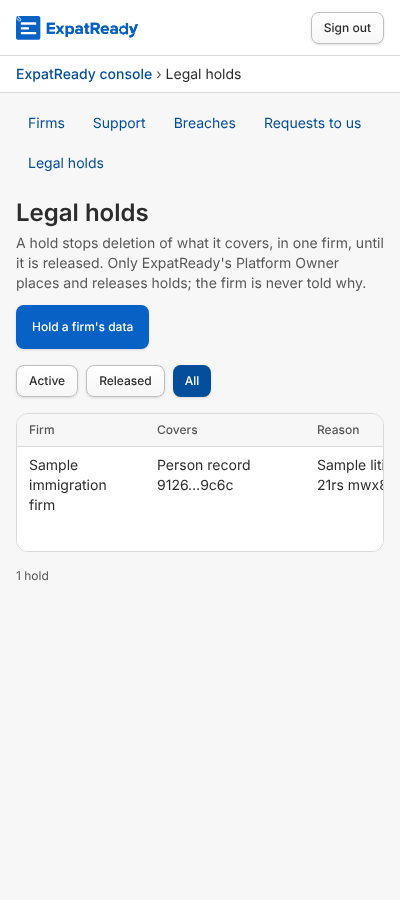
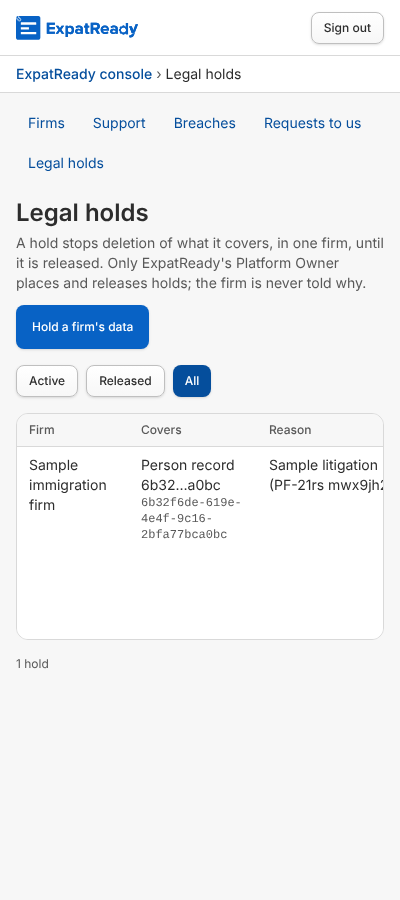
screens: R1.85 — PF-21rs B2 round 1 — the hold dialog says what to do (review M1) + minors
* Review M1: no firm chosen (a name typed but not chosen), an id that is not one, missing dates or reason → plain
  words before anything is sent; the API's refusals stay the backstop.
* Minors: the table fits 1024 px; focus to the release reason after a refusal; "Released" in the All view; the
  full person or case id shown and selectable; two holds on one scope told apart (placed time and reason in the
  release button's name and dialog); a release refused as already released closes, reloads and says so; the
  dialog wraps long firm names; 44 px dialog buttons on phones; the success line clears.
check_pf21rs_browser.ts 67/67 on an isolated copy.

Claude-Session: https://claude.ai/code/session_01XTe3gcpyFFe13EGme1RMEh

diff --git a/ai-workers/problem-1-pathway-setup-and-form-filling/prototype/studio/web/src/modules/system/privacy/holds-page.tsx b/ai-workers/problem-1-pathway-setup-and-form-filling/prototype/studio/web/src/modules/system/privacy/holds-page.tsx
@@ -10,25 +10,28 @@ import { SystemFrame, useSystemStaff } from "../frame";
 import { systemApi, SystemApiError, useSystemToken } from "../session";
 import { actorWords, firmWords, momentUtc } from "./contract";
 import { OneFirm, type Firm } from "./one-firm";
-import { coversWords, HOLD_CATEGORIES, HOLD_COPY as C, holdBody, holdFieldErrors, HoldList, LEGAL_HOLD_KEY, type Hold, type HoldDraft } from "./holds";
+import { coversWords, HOLD_CATEGORIES, HOLD_COPY as C, holdBody, holdDraftErrors, holdFieldErrors, HoldList, LEGAL_HOLD_KEY, type Hold, type HoldDraft } from "./holds";
 
 const blank = (): HoldDraft => ({ firmId: "", kind: "FIRM", id: "", category: HOLD_CATEGORIES[0][0], from: "", to: "", reason: "" });
 
-function PlaceHold({ open, onOpenChange, onPlaced, returnFocus }: { open: boolean; onOpenChange: (o: boolean) => void; onPlaced: () => void; returnFocus: () => HTMLElement | null }) {
+function PlaceHold({ open, onOpenChange, onPlaced, returnFocus, onTry }: { open: boolean; onOpenChange: (o: boolean) => void; onPlaced: () => void; returnFocus: () => HTMLElement | null; onTry?: () => void }) {
   const [d, setD] = React.useState<HoldDraft>(blank), [firm, setFirm] = React.useState<Firm | null>(null), [advanced, setAdvanced] = React.useState(false);
   const [errors, setErrors] = React.useState<Record<string, string>>({}), [busy, setBusy] = React.useState(false), [refused, setRefused] = React.useState(0), form = React.useRef<HTMLFormElement>(null);
   React.useEffect(() => { if (open) { setD(blank()); setFirm(null); setAdvanced(false); setErrors({}); } }, [open]);
   React.useEffect(() => { if (refused) form.current?.querySelector<HTMLElement>("[aria-invalid=true]")?.focus(); }, [refused]);
   const put = <K extends keyof HoldDraft>(k: K, v: HoldDraft[K]) => { setD((o) => ({ ...o, [k]: v })); setErrors((o) => { if (!(k in o)) return o; const { [k]: _gone, ...rest } = o; return rest; }); };
   const send = async (e: React.FormEvent) => {
-    e.preventDefault(); if (busy) return; setBusy(true); setErrors({});
+    e.preventDefault(); if (busy) return; onTry?.();   // break m6: an earlier success line goes once a new place is tried
+    const mine = holdDraftErrors(d, !!firm, advanced);
+    if (Object.keys(mine).length) { setErrors(mine); setRefused((n) => n + 1); return; }
+    setBusy(true); setErrors({});
     try { await systemApi("/register/holds", { method: "POST", json: holdBody({ ...d, firmId: firm?.id ?? "", kind: advanced ? d.kind : "FIRM" }) }); onPlaced(); }
     catch (x) { setErrors(x instanceof SystemApiError && x.problem.fields ? holdFieldErrors(x.problem.fields) : { other: x instanceof SystemApiError ? x.message : C.failed }); setRefused((n) => n + 1); }
     finally { setBusy(false); }
   };
   return (
     <Dialog open={open} onOpenChange={onOpenChange} title={C.placeTitle} description={C.placeLead} guard returnFocus={returnFocus}
-      footer={<><Button type="button" variant="outline" onClick={() => onOpenChange(false)}>Cancel</Button><Button type="submit" form="place-hold" busy={busy} data-place-send>Place the hold</Button></>}>
+      footer={<><Button type="button" variant="outline" onClick={() => onOpenChange(false)}>Cancel</Button><Button type="submit" form="place-hold" busy={busy} className="max-sm:min-h-11" data-place-send>Place the hold</Button></>}>
       <form id="place-hold" ref={form} onSubmit={send} noValidate className="flex flex-col gap-4">
         <OneFirm chosen={firm} onChange={(f) => { setFirm(f); setErrors(({ firmId: _g, ...r }) => r); }} error={errors.firmId} />
         <label className="flex items-center gap-2 text-sm"><input type="checkbox" className="size-4 accent-[var(--color-primary)]" checked={advanced} onChange={(e) => setAdvanced(e.target.checked)} data-advanced />{C.advanced}</label>
@@ -49,20 +52,27 @@ function PlaceHold({ open, onOpenChange, onPlaced, returnFocus }: { open: boolea
   );
 }
 
-function ReleaseHold({ hold, onOpenChange, onReleased }: { hold: Hold | null; onOpenChange: (o: boolean) => void; onReleased: () => void }) {
-  const [reason, setReason] = React.useState(""), [errors, setErrors] = React.useState<Record<string, string>>({}), [busy, setBusy] = React.useState(false);
+function ReleaseHold({ hold, onOpenChange, onReleased, onStale }: { hold: Hold | null; onOpenChange: (o: boolean) => void; onReleased: () => void; onStale: (words: string) => void }) {
+  const [reason, setReason] = React.useState(""), [errors, setErrors] = React.useState<Record<string, string>>({}), [busy, setBusy] = React.useState(false), form = React.useRef<HTMLFormElement>(null);
+  // Review m2: after a refusal the refused field takes the focus.
+  React.useEffect(() => { if (errors.reason) form.current?.querySelector<HTMLElement>("[aria-invalid=true]")?.focus(); }, [errors]);
   React.useEffect(() => { if (hold) { setReason(""); setErrors({}); } }, [hold]);
   const go = async (e: React.FormEvent) => {
-    e.preventDefault(); if (busy || !hold) return; setBusy(true); setErrors({});
+    e.preventDefault(); if (busy || !hold) return;
+    if (!reason.trim()) { setErrors({ reason: C.releaseReasonNeeded }); return; }
+    setBusy(true); setErrors({});
     try { await systemApi(`/register/holds/${hold.id}/release`, { method: "POST", json: { reason } }); onReleased(); }
-    catch (x) { setErrors(x instanceof SystemApiError && x.problem.fields ? holdFieldErrors(x.problem.fields) : { other: x instanceof SystemApiError ? x.message : C.failed }); }
+    catch (x) {
+      // Break m2: released elsewhere meanwhile: the dialog closes, the list reloads and says so.
+      if (x instanceof SystemApiError && x.status === 409) { onStale(x.message); return; }
+      setErrors(x instanceof SystemApiError && x.problem.fields ? holdFieldErrors(x.problem.fields) : { other: x instanceof SystemApiError ? x.message : C.failed }); }
     finally { setBusy(false); }
   };
   return (
-    <Dialog open={!!hold} onOpenChange={onOpenChange} title={C.releaseTitle} description={hold ? `${firmWords({ id: hold.firmId, name: hold.firmName ?? null })}: ${coversWords(hold.scope)}. ${C.releaseLead}` : ""}
+    <Dialog open={!!hold} onOpenChange={onOpenChange} title={C.releaseTitle} description={hold ? <span className="[overflow-wrap:anywhere]">{firmWords({ id: hold.firmId, name: hold.firmName ?? null })}: {coversWords(hold.scope)}, placed {momentUtc(hold.placedAt)} for “{hold.reason}”. {C.releaseLead}</span> : ""}
       returnFocus={() => document.getElementById("holds-heading")}
-      footer={<><Button type="button" variant="outline" onClick={() => onOpenChange(false)}>Cancel</Button><Button type="submit" form="release-hold" variant="destructive" busy={busy} data-release-send>Release the hold</Button></>}>
-      <form id="release-hold" onSubmit={go} noValidate className="flex flex-col gap-4">
+      footer={<><Button type="button" variant="outline" onClick={() => onOpenChange(false)}>Cancel</Button><Button type="submit" form="release-hold" variant="destructive" busy={busy} className="max-sm:min-h-11" data-release-send>Release the hold</Button></>}>
+      <form id="release-hold" ref={form} onSubmit={go} noValidate className="flex flex-col gap-4">
         <Field label="Reason for the release" hint="Why it may be released: kept on the hold and on the audit line." error={errors.reason}><Input value={reason} onChange={(e) => setReason(e.target.value)} data-field="release-reason" /></Field>
         {errors.other ? <Notice tone="danger"><span data-release-error>{errors.other}</span></Notice> : null}
       </form>
@@ -91,7 +101,7 @@ function HoldsBody() {
     <div className="mx-auto flex max-w-7xl flex-col gap-4">
       {title}
       <div role="group" aria-label="Show holds" className="flex flex-wrap gap-2">
-        {(["active", "released", "all"] as const).map((x) => <Button key={x} variant={state === x ? "default" : "outline"} size="sm" aria-pressed={state === x} onClick={() => setState(x)} data-hold-chip={x}>{x === "active" ? "Active" : x === "released" ? "Released" : "All"}</Button>)}
+        {(["active", "released", "all"] as const).map((x) => <Button key={x} variant={state === x ? "default" : "outline"} size="sm" aria-pressed={state === x} onClick={() => { setState(x); setDone(null); }} data-hold-chip={x}>{x === "active" ? "Active" : x === "released" ? "Released" : "All"}</Button>)}
       </div>
       {!d && !list.isError ? <p role="status" className="text-sm text-text-muted" data-loading>Loading the holds…</p>
         : list.isError ? <Notice tone="danger" title="Not available" action={<Button variant="outline" size="sm" onClick={() => void list.refetch()}>Retry</Button>}><span data-holds-error>{refused ? refused.message : C.loadFailed}</span></Notice>
@@ -99,19 +109,19 @@ function HoldsBody() {
             : <>
               <Table label="Legal holds" head={["Firm", "Covers", "Reason", "Placed", "Release"]}>
                 {d!.holds.map((h) => <tr key={h.id} data-hold-row={h.id} data-active={h.active}>
-                  <td className="min-w-32 [overflow-wrap:anywhere]">{firmWords({ id: h.firmId, name: h.firmName ?? null })}</td>
-                  <td className="min-w-40">{coversWords(h.scope)}</td>
-                  <td className="min-w-48 max-w-md [overflow-wrap:anywhere]">{h.reason}</td>
+                  <td className="min-w-28 [overflow-wrap:anywhere]">{firmWords({ id: h.firmId, name: h.firmName ?? null })}</td>
+                  <td className="min-w-32 [overflow-wrap:anywhere]">{coversWords(h.scope)}{h.scope.kind === "PERSON" || h.scope.kind === "CASE" ? <code className="block select-all font-mono text-xs text-text-muted [overflow-wrap:anywhere]">{h.scope.id}</code> : null}</td>
+                  <td className="min-w-40 [overflow-wrap:anywhere]">{h.reason}</td>
                   <td className="whitespace-nowrap text-sm"><time dateTime={h.placedAt}>{momentUtc(h.placedAt)}</time><span className="block text-xs text-text-muted">{actorWords(h.placedBy, h.placedByName ?? null)}</span></td>
-                  <td className="min-w-40 text-sm">{h.active ? (manage ? <Button variant="outline" size="sm" className="text-text-danger" onClick={() => setReleasing(h)} aria-label={`Release the hold on ${firmWords({ id: h.firmId, name: h.firmName ?? null })}: ${coversWords(h.scope)}`}>Release</Button> : "Active")
-                    : <span data-released><time dateTime={h.releasedAt ?? ""}>{h.releasedAt ? momentUtc(h.releasedAt) : ""}</time><span className="block text-xs text-text-muted [overflow-wrap:anywhere]">{actorWords(h.releasedBy ?? "", h.releasedByName ?? null)}{h.releaseReason ? `: ${h.releaseReason}` : ""}</span></span>}</td>
+                  <td className="min-w-24 text-sm">{h.active ? (manage ? <Button variant="outline" size="sm" className="text-text-danger" onClick={() => setReleasing(h)} data-release={h.id} aria-label={`Release the hold on ${firmWords({ id: h.firmId, name: h.firmName ?? null })}: ${coversWords(h.scope)}, placed ${momentUtc(h.placedAt)}`}>Release</Button> : "Active")
+                    : <span data-released><span className="block font-medium">Released</span><time dateTime={h.releasedAt ?? ""}>{h.releasedAt ? momentUtc(h.releasedAt) : ""}</time><span className="block text-xs text-text-muted [overflow-wrap:anywhere]">{actorWords(h.releasedBy ?? "", h.releasedByName ?? null)}{h.releaseReason ? `: ${h.releaseReason}` : ""}</span></span>}</td>
                 </tr>)}
               </Table>
               <p className="text-xs text-text-muted">{d!.truncated ? C.truncated : `${d!.holds.length} ${d!.holds.length === 1 ? "hold" : "holds"}`}</p>
             </>}
       {manage ? <>
-        <PlaceHold open={open} onOpenChange={(o) => { setOpen(o); if (!o) refresh(); }} returnFocus={() => placeButton.current} onPlaced={() => { setOpen(false); setDone(C.placed); setState("active"); refresh(); }} />
-        <ReleaseHold hold={releasing} onOpenChange={(o) => { if (!o) { setReleasing(null); refresh(); } }} onReleased={() => { setReleasing(null); setDone(C.released); refresh(); }} />
+        <PlaceHold open={open} onOpenChange={(o) => { setOpen(o); if (!o) refresh(); }} returnFocus={() => placeButton.current} onPlaced={() => { setOpen(false); setDone(C.placed); setState("active"); refresh(); }} onTry={() => setDone(null)} />
+        <ReleaseHold hold={releasing} onOpenChange={(o) => { if (!o) { setReleasing(null); refresh(); } }} onReleased={() => { setReleasing(null); setDone(C.released); refresh(); }} onStale={(w) => { setReleasing(null); setDone(w); refresh(); }} />
       </> : null}
     </div>
   );

diff --git a/ai-workers/problem-1-pathway-setup-and-form-filling/prototype/studio/tests/check_pf21rs_browser.ts b/ai-workers/problem-1-pathway-setup-and-form-filling/prototype/studio/tests/check_pf21rs_browser.ts
@@ -459,7 +459,15 @@ try {
   await hd.getByRole("button", { name: "Place the hold" }).click();
   await hd.locator("[role=alert]").first().waitFor({ timeout: 5000 }).catch(() => undefined);
   const holdErrs = await hd.locator("[role=alert]").allInnerTexts();
-  ok("PF-21rs B2 W3 fail: no firm and no reason → each refusal shown (the API's words), nothing placed", holdErrs.length >= 2 && holdCount() === h0, holdErrs);
+  ok("PF-21rs B2 W3 fail (review M1): no firm chosen and no reason → each refusal in plain words saying what to do, nothing placed",
+    holdErrs.includes(HOLD_COPY.firmNotChosen) && holdErrs.includes(HOLD_COPY.reasonNeeded) && holdCount() === h0, holdErrs);
+  // Typing the firm's name without choosing it, and an id that is not one: said in plain words, nothing sent.
+  await hd.locator("[data-firm-search]").fill(nameA); await hd.locator("[data-advanced]").check(); await hd.getByLabel("Covers").selectOption("PERSON");
+  await hd.getByLabel("Person record id").fill(nameA); await hd.getByLabel("Reason for the hold").fill("Sample"); await hd.getByRole("button", { name: "Place the hold" }).click();
+  const slipErrs = await hd.locator("[role=alert]").allInnerTexts();
+  ok("PF-21rs B2 W3 fail (review M1): a firm name typed but not chosen, and a person id that is not one, each say what to do; nothing placed",
+    slipErrs.includes(HOLD_COPY.firmNotChosen) && slipErrs.includes(HOLD_COPY.idWords) && holdCount() === h0, slipErrs);
+  await hd.locator("[data-advanced]").uncheck(); await hd.getByLabel("Reason for the hold").fill("");
   await hd.locator("[data-firm-search]").fill(nameA); await hd.locator(`[data-add-firm="${A}"]`).click({ timeout: 10_000 });
   await hd.locator("[data-advanced]").check(); await hd.getByLabel("Covers").selectOption("PERSON"); await hd.getByLabel("Person record id").fill(heldPerson);
   await hd.getByLabel("Reason for the hold").fill(`Sample litigation (PF-21rs ${run})`); await hd.getByRole("button", { name: "Place the hold" }).click();
@@ -472,11 +480,12 @@ try {
     !!holdId && rowText.includes(nameA) && rowText.includes(coversWords({ kind: "PERSON", id: heldPerson })) && rowText.includes("Platform Owner (Sample)") && (await p1.locator("[data-done]").innerText().catch(() => "")) === HOLD_COPY.placed, { holdId, rowText });
   ok("PF-21rs B2 W3 pass (j_85 W4): the app's delete check now answers HELD for that person, with the hold's reason (shown in our console only)", held.v === "HELD" && held.why.includes(`Sample litigation (PF-21rs ${run})`), held);
   await p1.screenshot({ path: join(SHOTS, "b2-01-holds-active-1440.png"), fullPage: true });
-  await p1.getByRole("button", { name: `Release the hold on ${nameA}: ${coversWords({ kind: "PERSON", id: heldPerson })}`, exact: true }).click();
+  await p1.locator(`[data-release="${holdId}"]`).click();
   const rd = p1.getByRole("dialog", { name: HOLD_COPY.releaseTitle }); await rd.waitFor();
+  const relWords = await rd.getByText(`Sample litigation (PF-21rs ${run})`).count();   // break m3: the dialog names the matter
   await rd.getByRole("button", { name: "Release the hold" }).click();
   const relErr = await rd.locator("[role=alert]").first().innerText({ timeout: 5000 }).catch(() => "");
-  ok("PF-21rs B2 W3 fail (BR-6): Release without a reason → refused under the field; the hold stays active and the check still HELD", !!relErr && sql(`select released_at is null from plat_legal_hold where id = '${holdId}'`) === "t" && (await verdictFor(heldPerson)).v === "HELD", relErr);
+  ok("PF-21rs B2 W3 fail (BR-6): Release without a reason → refused under the field; the hold stays active and the check still HELD", relErr === HOLD_COPY.releaseReasonNeeded && relWords > 0 && sql(`select released_at is null from plat_legal_hold where id = '${holdId}'`) === "t" && (await verdictFor(heldPerson)).v === "HELD", relErr);
   await rd.getByLabel("Reason for the release").fill("Sample: the matter settled"); await rd.getByRole("button", { name: "Release the hold" }).click();
   await rd.waitFor({ state: "hidden", timeout: 15_000 }).catch(() => undefined);
   await p1.locator('[data-hold-chip="released"]').click(); await p1.locator(`[data-hold-row="${holdId}"] [data-released]`).waitFor({ timeout: 10_000 }).catch(() => undefined);

diff --git a/ai-workers/problem-1-pathway-setup-and-form-filling/prototype/studio/web/src/modules/system/privacy/holds.ts b/ai-workers/problem-1-pathway-setup-and-form-filling/prototype/studio/web/src/modules/system/privacy/holds.ts
@@ -5,6 +5,17 @@
 import { z } from "zod";
 import { shortId } from "./contract";
 
+const UUID = /^[0-9a-f]{8}-[0-9a-f]{4}-[0-9a-f]{4}-[0-9a-f]{4}-[0-9a-f]{12}$/i;
+/** Review M1 (B2): the dialog's own plain words before anything is sent (the API's refusals stay the backstop). */
+export function holdDraftErrors(d: HoldDraft, firmChosen: boolean, advanced: boolean): Record<string, string> {
+  const out: Record<string, string> = {};
+  if (!firmChosen) out.firmId = HOLD_COPY.firmNotChosen;
+  if (advanced && (d.kind === "PERSON" || d.kind === "CASE") && !UUID.test(d.id.trim())) out.id = HOLD_COPY.idWords;
+  if (advanced && d.kind === "DATE_RANGE") { if (!d.from || !d.to) out[!d.from ? "from" : "to"] = HOLD_COPY.datesNeeded; else if (d.to < d.from) out.to = HOLD_COPY.datesOrder; }
+  if (!d.reason.trim()) out.reason = HOLD_COPY.reasonNeeded;
+  return out;
+}
+
 /** SA-07 Appendix A "Place and release legal holds" (the Platform Owner only, SA7-D74 (a)). */
 export const LEGAL_HOLD_KEY = "system/compliance:legal-hold";
 /** PF-21b's categories (ports/legal-hold.ts LEGAL_HOLD_CATEGORY), in a person's words. */
@@ -70,4 +81,9 @@ export const HOLD_COPY = {
   releaseLead: "Deletion of what it covers may go ahead again once it is released. This cannot be undone: a new hold would be placed afresh.",
   released: "The hold is released.",
   failed: "Could not save. Please try again.",
+  firmNotChosen: "Choose the firm from the list under the search box: typing its name is not enough.",
+  idWords: "Paste the record's id as the firm gives it: 36 characters, like 3f2a0c1e-…-c91e.",
+  datesNeeded: "Pick both dates: from, and to.", datesOrder: "The end date must be on or after the start date.",
+  reasonNeeded: "Write the legal matter the hold is for.",
+  releaseReasonNeeded: "Write why the hold may be released.",
 } as const;

diff --git a/ai-workers/problem-1-pathway-setup-and-form-filling/product/screens/PF-21rs/review-b2.md b/ai-workers/problem-1-pathway-setup-and-form-filling/product/screens/PF-21rs/review-b2.md
@@ -1,0 +1,73 @@
+# PF-21rs B2 (R1.85): "Legal holds" in our console: independent review, 26 Nov
+
+**Commit reviewed:** `782b79a16c69bd3f7851fa3008cbcf6a3c88ac46` (branch `claude/runtime-pf21rs-b2`, stacked on B1 #3818 at `732dfc836`). Diff `origin/claude/runtime-pf21rs-b..HEAD`: `privacy/holds.ts` (73), `holds-page.tsx` (122), `contract.ts` (+3 −2, the menu link), `routes.tsx` (+2), the B2 part of `tests/check_pf21rs_browser.ts` (+83 −1), and 2 screenshots.
+**Read:** concept r2 §3 BR-6, BR-7, BR-8, §4 "Legal holds", §5, §6 W3 (and Q3), §8; `api/src/platform/register/holds/{routes,service,adapter}.ts`; B1's `review-b1.md` for calibration. Out of scope (concept): "Hold this person" from a request page (Not built), the firm-side refusal screen (PF-21d, Q3).
+
+**Verdict: Ship after fixes → Block** (1 Major, 5 Minors). W3 works end to end on screen, but the dialog's refusals use format words that do not tell the Platform Owner what to do. B1 was blocked for this and fixed it; B2 brings it back on the same picker.
+
+## What I ran (copy `pf21rsr2` on :4441, never :4400; AI_LIVE=off; US$0; stopped after)
+* `check_pf21rs_browser.ts 4441 xr_studio_pf21rsr2`: **66/66, twice** (about 51 s each). I restored the screenshots it rewrites with `git checkout`.
+* `tsc -p web --noEmit`: exit 0. `graph.mjs`: G1 0 · G2 0 · G4 0 · G5 0. G3 lists `POST holds/:id/release` with no test and no web use. That is the tool's known `systemApi()` blind spot; the check and my walk both call it.
+* `module-cards.py pr` on the diff: **FAIL** (web-shell touched, no card change; no PR body yet; Minor 5).
+* My own Playwright walk at 1440 px as `ops.sample@expatready.example.com`, signed in on the console card. I went through the menu to Legal holds and clicked each chip. I tried "Hold a firm's data" empty, then with the firm typed but not chosen, a blank or bad person id, a reversed or empty date range, and a bidi reason; then Escape with typed text. I copied the person id from a request page, placed a person hold with a 444-character Polish/Chinese reason by double click, and ran `KeepPeriods.check` (HELD with the reason). I released with no reason, then with one (the check gives OK again). I tried a stale release from a second tab. I placed and released a firm hold with the keyboard only, checked 1024, 720 at 200 % and 375 px with axe, opened the page as Support and as our Auditor by URL, and reloaded with the dialog open. I read the DB after each step. Scripts and shots are in the session scratchpad.
+
+## Concept fit (held)
+* **Menu, page, table (§4):** the Privacy group links "Legal holds" by key, on the phone row too. h1 "Legal holds", crumb, tab title. Chips Active/Released/All with `aria-pressed`. Columns Firm · Covers · Reason · Placed (time + our staff name) · Release. The empty copy is §5's exactly.
+* **Dialog (BR-6, BR-7):** "Hold a firm's data". The firm is picked from our list (B1's `OneFirm`) and covers the whole firm by default; Advanced offers person, case, category and dates. The reason is never pre-filled, and both place and release need one (`REASON_REQUIRED` shown under the field). Escape with typed values asks "Discard your unsaved changes?". A padded id is trimmed (UXL-13).
+* **W3:** the person hold is listed Active with the firm name, "Person record 48a5…326f" and "Platform Owner (Sample)". `KeepPeriods.check` answers `HELD` with the hold's reason. Release (red outline, destructive confirm naming firm and scope) needs a reason; the row then moves to Released with time, who and "the matter settled", and the same check answers `OK`.
+* **Roles (BR-8, W5):** Support and our Auditor see the API's 403 words with no table, no button and no Legal holds link. A firm token gets 403 on list, place and release, and nothing is written.
+* **Data:** DB = screen. The 444-character reason is stored exactly. A double click stores one row. Reloading mid-dialog writes nothing. Each change writes one firm-trail line (`audit_event`) and the guard's `plat_system_audit` line. A stale release gives "This hold is already released; nothing was changed.", and Cancel refreshes the list.
+
+## Standards [M]: met except as listed
+**Met:** team frame and tokens; changes in dialogs; loading, error with Retry, empty, read-only (403) and conflict states; one filled button per view; names joined on the server (one request per view); server authorisation; zod shapes with no React (`holds.ts`); comments say why; axe 0 serious with no sideways page scroll at 1440, 1024, 720@2x and 375.
+**Not met:** EXPERIENCE §2.10 "errors say what happened and how to fix it" (Major 1); EXPERIENCE §1 "status by shape and text" and "full text on hover" (Minors 3, 4); STANDARDS §7 module card (Minor 5).
+
+## D1–D20 (1–5)
+| D | Score | Evidence |
+|---|---|---|
+| D1 Requirement fit | 5 | W3, W5, W6 and BR-6/7/8 as written (W3 as reworded in Q3) |
+| D2 Data integrity | 4 | Server refuses bad input; double click stores one row; the person id is not checked to exist (concept M4, runtime gap) |
+| D3 Reuse | 4 | `OneFirm`, Dialog, Field, `firmWords`, `actorWords`, `momentUtc`; B1's refusal words for the same picker are not reused |
+| D4 Rule integrity | 5 | The app's delete check answers HELD while held and OK after release |
+| D5 Stability, recovery | 4 | Reload, double click and stale release hold; a refused release leaves focus on the dialog box (Minor 2) |
+| D6 Governance | 5 | Reason both ways, never pre-filled; who, when and why on the row; firm trail and system audit lines |
+| D7 AI trust | N/A | No AI |
+| D8 Orientation | 5 | Crumb, h1, active menu item, tab title |
+| D9 Flow | 5 | One filled action; the empty state teaches; Release on each row |
+| D10 Language | 3 | "This is not in the expected format." for a missing firm or id; "A date (YYYY-MM-DD) or a time with its zone." (Major 1) |
+| D11 Feedback | 4 | Done lines (`role=status`), busy buttons, 409 words; no "Released" word in the All view (Minor 3) |
+| D12 Visual | 4 | Clean at 1440; at 1024 the Reason column squeezes and Release is cut (Minor 1) |
+| D13 Accessibility | 4 | axe 0 at every width, keyboard place and release, focus returns; Minors 1, 2 |
+| D14 Team look | 5 | Same frame and Table as Breaches and Requests |
+| D15 Speed | 5 | List 104 ms; place → listed about 1.1 s |
+| D16 Testability | 4 | Pass and fail lines for W3, W5, W6; the fail line accepts the format words; module-cards FAIL |
+| D17 First-use | simulated only | No intended user walked it |
+| D18 Provenance | 5 | Firm and staff names, reasons, "the firm is never told why" |
+| D19 Capability closure | 5 | Row W3 closed on screen with the app's own check; the firm-side refusal stays with PF-21d (Q3) |
+| D20 Pain solved | simulated only | |
+
+**BIC-01–BIC-20:** N/A (concept §4c: console, not a case screen). **UXL (EXPERIENCE §7):** 01–09, 12–14 Met (one filled button; Release set apart as danger; ids chunked; 44 px primary at 375); 10 Met (the table scrolls inside its box, with cut cells showing it); 11 N/A. **Journey score (reviewer, skill journey-test): 8.5/10, a pass, no criterion at 0** (`journey-test-reviewer-b2-2026-11-26.md`).
+
+## Issues
+### Major (Must)
+1. **The hold dialog's refusals do not say how to fix them** (`holds-page.tsx:25`, `:33`, `:38`, `:42-43`; EXPERIENCE §2.10 [M]).
+   * With the exact firm name typed but "Choose Sample immigration firm" not pressed, the dialog says "This is not in the expected format." under the box (walk `12-typed-not-chosen-1440.png`). This is the likeliest slip on W3's path; the person would retype the name.
+   * A blank or malformed person or case id gives the same words. Empty dates give "A date (YYYY-MM-DD) or a time with its zone." under a date picker.
+   * B1's Major 1 named this defect, and B1 round 1 fixed it for the same picker with its own checks and words (`requests-page.tsx:31-32`, `requests.ts:95-96`).
+   * Fix: check before sending, as B1 does. No firm: "Pick the firm from the list: type its name, then choose it." Blank or bad id: B1's `personIdWords` (or the case form). Empty date: "Pick a start date." / "Pick an end date." Assert the words in the W3 fail line.
+
+### Minor (Should)
+1. **At 1024 px the table overflows its box by 46 px** (`holds-page.tsx:105`). The Release column's time and "Platform Owner (Sample): …" are cut, and the Reason column narrows to about 180 px, so a 444-character reason runs to 36 lines (walk `09-list-1024.png`). Fix: let the Placed cell wrap below `lg`, or relax the Release cell's `min-w-40`.
+2. **A refused release leaves focus on the dialog box**, not the reason field (`holds-page.tsx:55-58`). The place dialog moves focus to the first refused field (`:19`). Fix: do the same in `ReleaseHold`.
+3. **In the All view, a released row carries no "Released" word.** Its state shows only as a date where active rows have a button (`holds-page.tsx:107`; EXPERIENCE §1). Fix: start the cell with "Released".
+4. **The full person or case id cannot be read anywhere on the page.** "Person record 48a5…326f" has no hover text (`holds-page.tsx:103`), and the release confirmation names only the short id. Fix: add `title` with the full id on the Covers cell.
+5. **`module-cards` FAIL:** web-shell's `contract.ts` and `routes.tsx` are touched (STANDARDS §7 [M]). Fix: put `Card unchanged: <reason>` in the PR body.
+
+Noted, not a finding: copying a person id from a request page in a second tab needs a second sign-in, because the console session is per tab (#3489's `sessionStorage`).
+
+## What I could not check
+A real screen reader; Safari and Firefox; the true empty Released/All state on a fresh register; j_85 W4's own browser steps (waiting for qa's console sign-in, §8 M3); an intended user's unaided walk (D17 and D20 stay with the founder).
+
+Reviewer: Block 782b79a16c69bd3f7851fa3008cbcf6a3c88ac46
+
+**Verdict: Block** on `782b79a16`. To fix: Major 1 (`holds-page.tsx:25-43`, plus the words asserted in the W3 fail line). Fix Minors 1–5 in this PR or record them on the row.

diff --git a/ai-workers/problem-1-pathway-setup-and-form-filling/product/screens/PF-21rs/break-report-b2.md b/ai-workers/problem-1-pathway-setup-and-form-filling/product/screens/PF-21rs/break-report-b2.md
@@ -1,0 +1,59 @@
+# PF-21rs B2: break report (branch claude/runtime-pf21rs-b2, head 782b79a16)
+
+Scope: Legal holds `/system/privacy/holds` (`holds.ts`, `holds-page.tsx`, the reused `one-firm.tsx` picker) over `/api/system/register/holds` (list, place, release). Not findings: "Hold this person" from a request (cut, concept §4); no idempotent create for holds (challenge m3, Not built: the button goes busy instead); the API not checking that a person or case id belongs to the firm (challenge M4, a logged runtime gap); tables that scroll inside their box at 375/400 px (concept §4 States).
+Setup: isolated copy `pf21rsk2` on :4442 (AI_LIVE=off, local identities; never :4400; stopped at the end, database removed). Platform Owner, Support, an Auditor added by SQL, a firm Representative's token (`sample-firm`). Playwright with Chromium 1243 from /opt/pw-browsers, plus axe-core. Firm names were made long by SQL: one of 150 characters with spaces, one of 80 characters with no break. Paths are under `prototype/studio/web/src/modules/system/privacy/` unless stated.
+
+## Verdict
+**Pass, with Minors.** I found no Blocker and no Major. Roles, server validation, release races, chips, keyboard, widths and hostile text all held. There are seven Minors, mostly wording and a stale release dialog.
+
+## Blocker
+None.
+
+## Major
+None.
+
+## Minor
+* **m1. Pressing "Place the hold" with no firm picked shows "This is not in the expected format." under Firm.** Repro: open "Hold a firm's data" and press "Place the hold" with nothing filled in. You get two alerts: "This is not in the expected format." and the reason's error. With a reason and no firm, only the first appears. Cause: `holds-page.tsx:98` sends `firmId: ""` when no firm is picked, and the API answers with zod's format words. The message does not say "pick a firm" (EXPERIENCE §2 item 10 [M]: errors say how to fix). A Person or Case id that is not a uuid gets the same words, while the hint only says "not checked here". Leaving both dates empty gives "A date (YYYY-MM-DD) or a time with its zone." to someone using a date picker (`api/.../holds/service.ts:71`). This is the same pattern as B1 m3.
+* **m2. A release refused by 409 leaves a dead dialog and a stale list.** Repro: open Active in tabs A and B, then press Release on the same hold in both. A releases it with a reason. B types a reason and presses "Release the hold". B's dialog shows "This hold is already released; nothing was changed." (the API's words, correct), but it stays open with the red button still enabled, and pressing it fails again each time. The row only goes away after Cancel (`holds-page.tsx:131`; refresh happens only in `onOpenChange`, `:187`). Concept §4 States: "conflict (409 words on the row + reload)". Same as B1 m1. Screenshot: scratchpad `shots/tab-b-409.png` (not committed).
+* **m3. Two holds with the same firm and scope can't be told apart when releasing.** Two separate matters can each hold a whole firm; the API makes two holds (I placed them concurrently, both 201). Both rows' buttons get the same accessible name, "Release the hold on Sample solo practice: All of the firm's data" (`:179`). The release dialog repeats only "<firm>: <covers>." (`:135`), with no reason and no placed date. A screen-reader user can't pick the right matter, and nobody can confirm it in the dialog. The release (and its audit line) then records against the wrong matter.
+* **m4. A firm name with no breaks overflows the release dialog.** With the 80-character name, the dialog's description doesn't wrap. The dialog scrolls sideways by 255 px at 375, 230 px at 400 and 86 px at 1024. At 375 and 400 the close X sits off-screen. The description has no `[overflow-wrap:anywhere]` (`:135`); the table cell has it (`:175`). Screenshot: scratchpad `shots/release-375.png`. The page itself and "Hold a firm's data" don't scroll sideways at 375, 400 or 1024.
+* **m5. The dialogs' main buttons are 36 px tall at 375 px.** "Place the hold" and "Release the hold" (`:104`, `:137`) measure 36 px. UXL-09 (P-795) asks for at least 44 px on primary buttons at 375 px. The page's own "Hold a firm's data" does it with `max-sm:min-h-11` (`:158`). Chips and row Release buttons are 32 px, which meets the 24 px minimum.
+* **m6. The success line never clears.** "The hold is placed. …" stays under the heading while you change chips. It is still there after a later failed place, and after a release it changes to "The hold is released." (`:157`, `:186-187`). A screen reader hears it once. Sighted users see an old confirmation next to a newer error.
+* **m7. The firm picker's error is not linked to its field.** With no firm picked, the search box has `aria-invalid="true"` but no `aria-describedby`. The error `<p role="alert">` is announced once, then can't be found from the field (`one-firm.tsx:29`, `:33`). The Reason and date fields do link theirs (`Field` notes). This is B1's component, reused here.
+* **API, PF-21b, noted for runtime (not this screen's code).** The guard counts a reason's length in characters, but the service counts UTF-16 units (`api/.../holds/service.ts:65`). So "a" followed by 260 emoji (261 characters) is refused as too long, while the guard says "up to 500 characters". A reason made only of emoji is refused as "This needs a written reason". Both are rare.
+* **Observation (not counted).** With 505 active holds, the list shows "Showing the newest 500." and the five oldest can't be seen or released on screen. The API takes `?firm=` but the page has no filter. That's honest, and well beyond any real volume.
+
+## Attacks that held
+* **Place, bad input (UI and API).** Each case gave a 422 with the error under its own field, nothing saved, typed text kept, and focus on the first invalid field:
+  * no firm;
+  * a firm and no reason;
+  * a reason that is spaces only;
+  * control characters only ("needs a written reason");
+  * a control character or a bidi mark inside text ("Write the reason as ordinary text.");
+  * 600 characters ("A reason is at most 500 characters.").
+* **Firm that does not exist.** A random firm uuid gives 404 "No such firm."
+* **Text that must be accepted.** An exactly 500-character unbroken reason, a 300-character CJK reason, Arabic text, a tab and `<img onerror>` HTML were all accepted. The HTML shows as plain text and the long text wraps in its cell.
+* **Advanced scopes.** Each was stored and shown in words:
+  * a Person id that is not a uuid, an empty Case id, an empty date range and a range with From after To are each refused under their own field ("The range ends on or after its start." under To);
+  * Person, Case, every category and a valid range ("Records dated 1 Dec 2026 to 31 Dec 2026", UTC, matching the server's whole-day reading) were all stored.
+  * Unticking Advanced sends `FIRM` even after a narrower kind was chosen (`:98`).
+* **Double submits.** A double-click on "Place the hold" and Enter twice in Reason each made exactly one hold. The button goes busy at once.
+* **Releasing twice.** Three concurrent API releases gave one 200 and two 409s, with one audit line. A later release gives 409. A malformed id gives 404 "Not found."; an unknown uuid gives 404 "No such legal hold."
+* **Chips.** Active, Released and All each filter correctly, with `aria-pressed` and the right count. A placed hold switches the view to Active. Released rows show when, who and why. An unknown `?state=` gives 422.
+* **Roles.**
+  * Auditor and Support with no key: the API's 403 words on the page, with no table, no chips, no "Hold a firm's data" and no Legal holds link.
+  * A firm token: 403 on list, place and release (B2 W5 checks place and release by API).
+  * A firm token stored as the console session: "A firm's staff session cannot be used here", and no data. The firm user's own session key is never sent (`session.ts`).
+  * No token: 401.
+* **Keyboard only.** Nine Tabs reach "Hold a firm's data", and Enter opens it on the firm search. From there:
+  * type a name, Tab to "Choose …" and Enter; focus moves to Change;
+  * Space ticks Advanced, and the arrow keys change Covers;
+  * Enter in Reason places the hold, and focus returns to "Hold a firm's data";
+  * Escape after typing asks "Discard your unsaved changes?";
+  * Change keeps the draft and puts focus back in the search;
+  * Release by keyboard opens on its reason, and Enter releases.
+* **Widths.**
+  * 375, 400, 1024 and 512×450 (1024 px at 200 % zoom): no sideways page scroll. The place dialog fits and scrolls inside itself.
+  * axe-core found 0 serious issues at 375 and 1024 on the page, the place dialog with errors showing, and the release dialog with an error showing.
+  * Long firm names wrap in the table and the picker.
+* **Load.** 508 holds: the list loads in about 0.5 s and the chips switch in under 0.2 s.

diff --git a/ai-workers/problem-1-pathway-setup-and-form-filling/product/screens/PF-21rs/journey-test-reviewer-b2-2026-11-26.md b/ai-workers/problem-1-pathway-setup-and-form-filling/product/screens/PF-21rs/journey-test-reviewer-b2-2026-11-26.md
@@ -1,0 +1,48 @@
+# PF-21rs B2 Legal holds: journey test (reviewer), 26 Nov
+
+Commit `782b79a16c69bd3f7851fa3008cbcf6a3c88ac46`. Isolated copy `pf21rsr2` on :4441 (never :4400), AI_LIVE=off, US$0, stopped after. Chromium via Playwright, headless, driven only by what a person sees (labels, roles, button names). The DB was read after each journey. The builder's `check_pf21rs_browser.ts` passed 66/66 twice on the same copy. Review: `review-b2.md`.
+
+## Journeys (persona · goal · expected)
+1. **Main (W3).** Platform Owner: "Hold this client's record while the matter runs, then let deletion go ahead when it settles." Expected: sign in on the card → Privacy › Legal holds → Hold a firm's data → firm by name → Advanced → One person record → paste the id from the request page → reason → Place → row Active, `KeepPeriods.check` HELD with the reason → Release with a reason → row under Released, the check OK.
+2. **Alternate:** a whole-firm hold placed and released with the keyboard only.
+3. **Empty:** Active with no hold teaches the first action.
+4. **Error:** empty submit; the firm typed but not chosen; a blank or bad id; a reversed or empty date range; a bidi reason; release with no reason.
+5. **Wrong role:** Support staff and our Auditor open `/system/privacy/holds` by URL; a firm Owner's token calls the API.
+6. **Recovery:** double click on Place; reload with the dialog open; Escape with typed values; two tabs releasing the same hold.
+7. **Screen boundary:** the person id comes from "Data requests to us" (B1's request page); after release, deletion is allowed again (the app's delete check; the firm-side screen is PF-21d's, Q3).
+
+## What held
+* J1: done in about 40 s of person time. The list opens in 104 ms; Place to listed takes about 1.1 s. The row reads "Sample immigration firm · Person record 48a5…326f · <reason> · 26 Nov 2026, 07:51 UTC, Platform Owner (Sample) · Release". The check answers `{"verdict":"HELD","holds":[{…reason…}]}` and, after release, `{"verdict":"OK"}`. The DB has 1 row, the reason stored exactly (444 characters, Polish and Chinese), and `placed_by staff:<id>`. There is 1 firm-trail line per change, plus the guard's lines.
+* J2: Tab ×9 reaches "Hold a firm's data". Enter focuses the firm search; type, Tab, Enter chooses the firm and focus moves to "Change the firm (…)"; Tab ×2 reaches the reason; Enter places the hold and focus returns to the button. Enter on Release, type, Enter releases it, and focus lands on the h1.
+* J3: "No active hold. A hold stops deletion of what it covers until it is released." (concept §5, word for word).
+* J4: nothing is stored on any refusal. Reversed range: "The range ends on or after its start." under To. Bidi: "Write the reason as ordinary text." Release with no reason: "This needs a written reason (up to 500 characters)."
+* J5: Support and Auditor get "Not available: Your roles do not include the permission this needs (system/compliance:legal-hold)…" with no table, no button and no link. The firm token gets 403 ×3, with nothing written.
+* J6: a double click stores 1 row. Reload: dialog closed, nothing written. Escape asks "Discard your unsaved changes?". Second tab: "This hold is already released; nothing was changed.", and Cancel refreshes the list (the row leaves Active).
+* Sizes: axe-core WCAG 2.2 A/AA shows 0 serious on the list and on the dialog with Advanced open at 1440, 1024, 720 (1440 at 200 %) and 375. No sideways page scroll. The primary button is 44 px at 375.
+
+## Findings
+* **Major:** the firm typed but not chosen gives "This is not in the expected format." (shot `12-typed-not-chosen-1440.png`). The same words appear for a blank or bad person id, and empty dates give "A date (YYYY-MM-DD) or a time with its zone." (`holds-page.tsx:25-43`). B1 fixed these words for the same picker (`requests-page.tsx:31-32`).
+* **Minor:** at 1024 the table overflows its box by 46 px, so the Release cell is cut and the reason runs to 36 lines (`09-list-1024.png`). A refused release leaves focus on the dialog box. The All view has no "Released" word. The full person id cannot be read anywhere.
+* **Note:** opening the request page in a second tab to copy the id asks for a second sign-in (console session per tab, #3489).
+
+## Score (each 0, ½ or 1)
+| Criterion | Score | Evidence |
+|---|---|---|
+| Task completed | 1 | J1 and J2 end to end on screen; HELD, then OK |
+| Next step obvious | 1 | One filled button; the empty state teaches; Release on each row |
+| Plain words | ½ | Four refusals in format words (Major) |
+| Feedback and state | 1 | Done lines (`role=status`), busy buttons, 409 words, refresh on close |
+| Correct data | 1 | DB = screen; one row on double click; audit lines present |
+| Error recovery | ½ | The likeliest slip (firm not chosen) gives a misleading message |
+| Accessibility and screen sizes | ½ | axe 0 and full keyboard path; 1024 table cut; focus after a refused release |
+| Speed | 1 | 104 ms list; about 1.1 s place |
+| Visual quality | 1 | Team frame, long text wraps at 1440, danger styling for Release |
+| Trust and sources | 1 | Who placed or released by name; reasons; "the firm is never told why" |
+| **Total** | **8.5 / 10** | **Pass** (8 or more, no 0) |
+
+Fixes that raise the low criteria, most valuable first: (1) check before sending, as B1 does, and use plain refusal words (plain words, error recovery); (2) let the 1024 table fit and focus the release reason on a refusal (accessibility).
+
+## Not tested
+A real screen reader; Safari and Firefox; a hostile file (no upload here); an intended user's unaided walk (D17 and D20 stay with the founder).
+
+**Verdict:** journey pass at 8.5/10. The review still blocks on the Major (`review-b2.md`).
